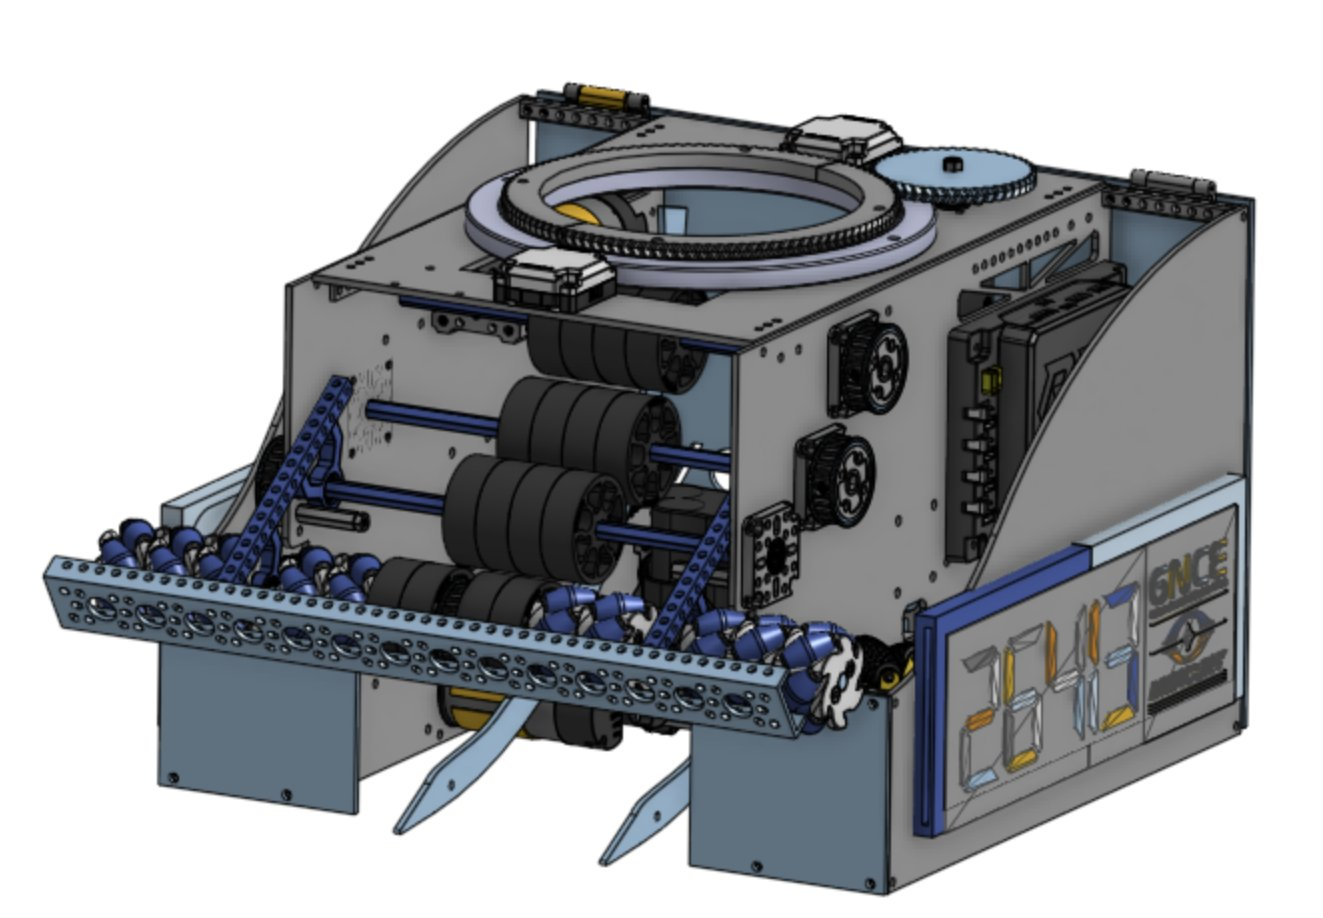
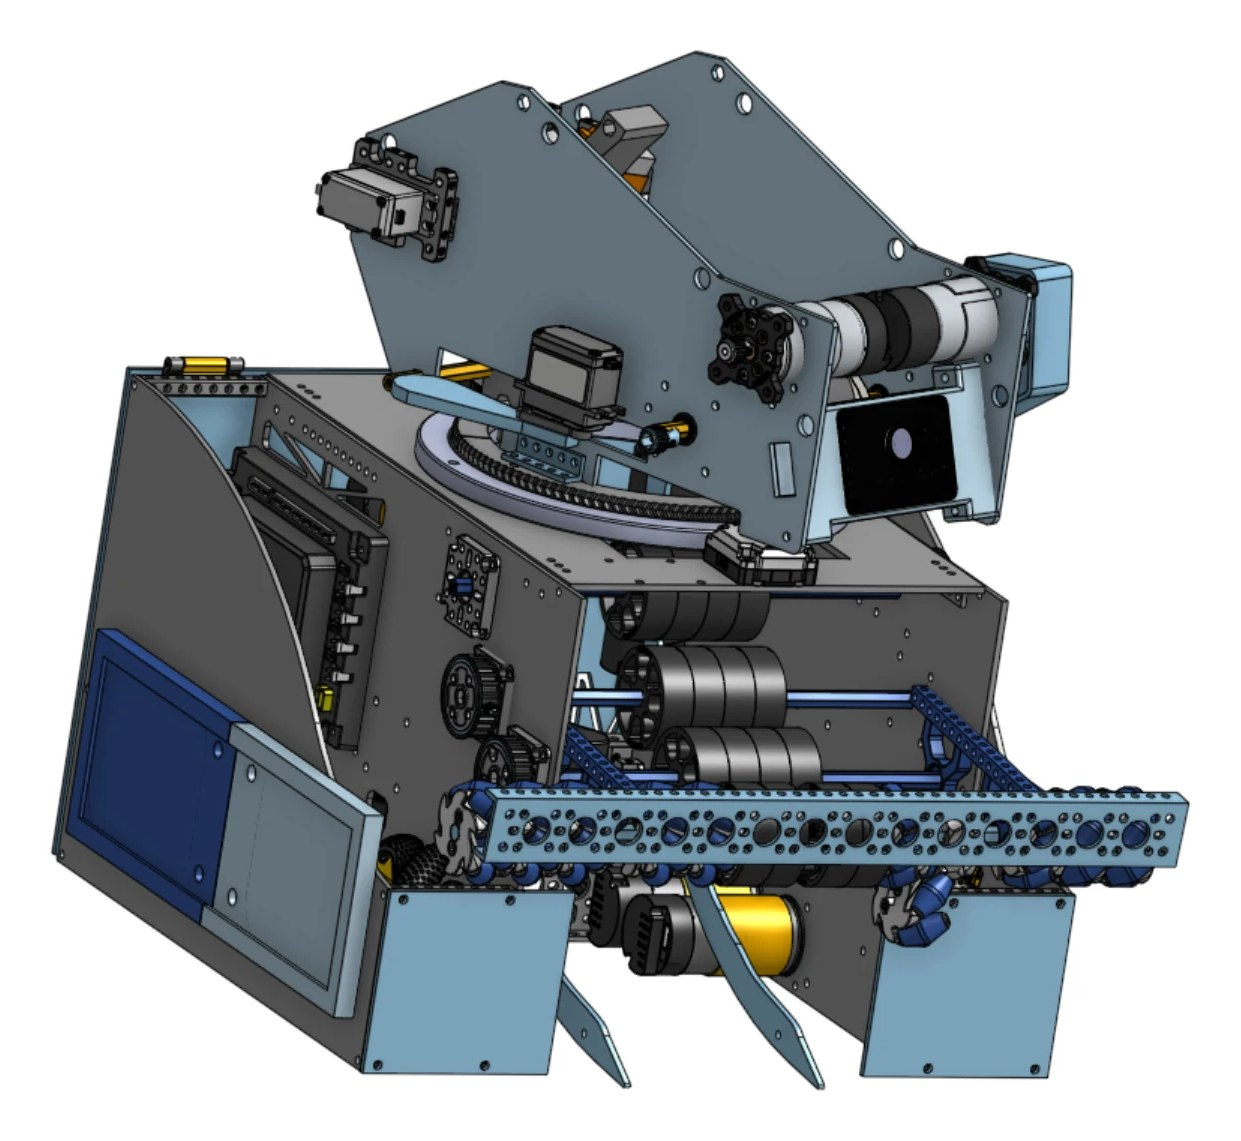
Show the DECODE robot with its shooter; sharper Limelight image
Replace the DECODE robot render on the home carousel and season page
with the full CAD that includes the turret shooter, and crop the
Limelight card image from that render so it is no longer a blurry
low-res screenshot.

Claude-Session: https://claude.ai/code/session_01JbNmKfxJyxxUBqqUXQwoMM

diff --git a/seasons/2025-2026.html b/seasons/2025-2026.html
@@ -7,7 +7,7 @@
   <link rel="preconnect" href="https://fonts.googleapis.com">
   <link rel="preconnect" href="https://fonts.gstatic.com" crossorigin>
   <link href="https://fonts.googleapis.com/css2?family=Chakra+Petch:wght@500;600;700&family=Inter:wght@400;500;600&family=JetBrains+Mono:wght@400;700&display=swap" rel="stylesheet">
-  <link rel="stylesheet" href="../css/style.css?v=28">
+  <link rel="stylesheet" href="../css/style.css?v=29">
 </head>
 <body data-page="seasons" data-root="../">
   <main class="container">
@@ -23,7 +23,7 @@
     <section>
       <h2 class="section-title">The Robot</h2>
       <div class="robot">
-        <img class="robot-photo cad-hero" src="../images/decode-robot-cad.jpg" alt="CAD render of Mercury's DECODE robot with its intake, transfer, and turret shooter" width="1323" height="918">
+        <img class="robot-photo cad-hero" src="../images/decode-robot-cad.jpg" alt="CAD render of Mercury's DECODE robot with its intake, transfer, and turret shooter" width="1241" height="1141">
         <div>
           <h3 style="font-size:1.5rem;margin-bottom:10px">A turret shooter that aims itself</h3>
           <p class="muted">
@@ -58,7 +58,7 @@
         <article class="part-card"><img class="render" src="../images/decode-transfer.jpg" alt="CAD render of the V3 transfer with custom rails" loading="lazy"><div><h3>Transfer</h3><p>V1 took 1.5 s to bring a ball to the shooter. V2 moved several balls at once in 0.9 s. V3 uses custom CADed rails on a constant incline to shrink the footprint and gets a ball to the shooter in 0.34 s.</p></div></article>
         <article class="part-card"><img class="render" src="../images/decode-shooter.jpg" alt="CAD render of shooter version 4" loading="lazy"><div><h3>Shooter</h3><p>Four versions: a bulky fixed hood, a sturdier but large build, a smaller modular one that was unstable, and V4 with stable side plates, the motors in front, and a front-mounted Limelight.</p></div></article>
         <article class="part-card"><img class="render" src="../images/decode-turret.jpg" alt="CAD of the turret top plate, lazy susan, and herringbone gear" loading="lazy"><div><h3>Turret</h3><p>A pulley drive lost tension and took up space, so we switched to a 1:3 herringbone gear mounted to a lazy susan in the top plate. Spring-loaded key retractors manage the wires through the full 360&deg;.</p></div></article>
-        <article class="part-card"><img class="render" src="../images/decode-limelight.png" alt="CAD of the Limelight mounted in front of the shooter" loading="lazy"><div><h3>Limelight</h3><p>After trial and error, we mounted the Limelight directly in front of the shooter. It gives more accurate shots and also helps support the shooter's structure.</p></div></article>
+        <article class="part-card"><img class="render" src="../images/decode-limelight.jpg" alt="CAD render of the Limelight mounted on the front of the shooter" loading="lazy"><div><h3>Limelight</h3><p>After trial and error, we mounted the Limelight directly in front of the shooter. It gives more accurate shots and also helps support the shooter's structure.</p></div></article>
       </div>
     </section>
 
@@ -125,6 +125,6 @@
     </section>
 
   </main>
-  <script src="../js/main.js?v=28"></script>
+  <script src="../js/main.js?v=29"></script>
 </body>
 </html>

diff --git a/index.html b/index.html
@@ -8,7 +8,7 @@
   <link rel="preconnect" href="https://fonts.googleapis.com">
   <link rel="preconnect" href="https://fonts.gstatic.com" crossorigin>
   <link href="https://fonts.googleapis.com/css2?family=Chakra+Petch:wght@500;600;700&family=Inter:wght@400;500;600&family=JetBrains+Mono:wght@400;700&display=swap" rel="stylesheet">
-  <link rel="stylesheet" href="css/style.css?v=28">
+  <link rel="stylesheet" href="css/style.css?v=29">
 </head>
 <body data-page="index">
   <main>
@@ -37,7 +37,7 @@
             <figcaption><b>BIOBUZZ</b> · 2026–2027 · <a href="seasons/2026-2027.html">Follow the build →</a></figcaption>
           </figure>
           <figure class="slide">
-            <div class="frame light"><img class="contain" src="images/decode-robot-cad.jpg" alt="CAD render of GNCE Mercury's DECODE robot with its intake, transfer, and turret shooter" width="1323" height="918" loading="lazy"></div>
+            <div class="frame light"><img class="contain" src="images/decode-robot-cad.jpg" alt="CAD render of GNCE Mercury's DECODE robot with its intake, transfer, and turret shooter" width="1241" height="1141" loading="lazy"></div>
             <figcaption><b>DECODE</b> · 2025–2026 · <a href="seasons/2025-2026.html">See how we built it →</a></figcaption>
           </figure>
           <figure class="slide">
@@ -106,6 +106,6 @@
     </section>
 
   </main>
-  <script src="js/main.js?v=28"></script>
+  <script src="js/main.js?v=29"></script>
 </body>
 </html>

diff --git a/seasons/2024-2025.html b/seasons/2024-2025.html
@@ -7,7 +7,7 @@
   <link rel="preconnect" href="https://fonts.googleapis.com">
   <link rel="preconnect" href="https://fonts.gstatic.com" crossorigin>
   <link href="https://fonts.googleapis.com/css2?family=Chakra+Petch:wght@500;600;700&family=Inter:wght@400;500;600&family=JetBrains+Mono:wght@400;700&display=swap" rel="stylesheet">
-  <link rel="stylesheet" href="../css/style.css?v=28">
+  <link rel="stylesheet" href="../css/style.css?v=29">
 </head>
 <body data-page="seasons" data-root="../">
   <main class="container">
@@ -94,6 +94,6 @@
     </section>
 
   </main>
-  <script src="../js/main.js?v=28"></script>
+  <script src="../js/main.js?v=29"></script>
 </body>
 </html>

diff --git a/seasons/2026-2027.html b/seasons/2026-2027.html
@@ -7,7 +7,7 @@
   <link rel="preconnect" href="https://fonts.googleapis.com">
   <link rel="preconnect" href="https://fonts.gstatic.com" crossorigin>
   <link href="https://fonts.googleapis.com/css2?family=Chakra+Petch:wght@500;600;700&family=Inter:wght@400;500;600&family=JetBrains+Mono:wght@400;700&display=swap" rel="stylesheet">
-  <link rel="stylesheet" href="../css/style.css?v=28">
+  <link rel="stylesheet" href="../css/style.css?v=29">
 </head>
 <body data-page="seasons" data-root="../">
   <main class="container">
@@ -64,6 +64,6 @@
     </section>
 
   </main>
-  <script src="../js/main.js?v=28"></script>
+  <script src="../js/main.js?v=29"></script>
 </body>
 </html>

diff --git a/outreach.html b/outreach.html
@@ -7,7 +7,7 @@
   <link rel="preconnect" href="https://fonts.googleapis.com">
   <link rel="preconnect" href="https://fonts.gstatic.com" crossorigin>
   <link href="https://fonts.googleapis.com/css2?family=Chakra+Petch:wght@500;600;700&family=Inter:wght@400;500;600&family=JetBrains+Mono:wght@400;700&display=swap" rel="stylesheet">
-  <link rel="stylesheet" href="css/style.css?v=28">
+  <link rel="stylesheet" href="css/style.css?v=29">
 </head>
 <body data-page="outreach">
   <main class="container">
@@ -122,6 +122,6 @@
     </section>
 
   </main>
-  <script src="js/main.js?v=28"></script>
+  <script src="js/main.js?v=29"></script>
 </body>
 </html>

diff --git a/contact.html b/contact.html
@@ -7,7 +7,7 @@
   <link rel="preconnect" href="https://fonts.googleapis.com">
   <link rel="preconnect" href="https://fonts.gstatic.com" crossorigin>
   <link href="https://fonts.googleapis.com/css2?family=Chakra+Petch:wght@500;600;700&family=Inter:wght@400;500;600&family=JetBrains+Mono:wght@400;700&display=swap" rel="stylesheet">
-  <link rel="stylesheet" href="css/style.css?v=28">
+  <link rel="stylesheet" href="css/style.css?v=29">
 </head>
 <body data-page="contact">
   <main class="container">
@@ -71,6 +71,6 @@
     </section>
 
   </main>
-  <script src="js/main.js?v=28"></script>
+  <script src="js/main.js?v=29"></script>
 </body>
 </html>

diff --git a/seasons.html b/seasons.html
@@ -7,7 +7,7 @@
   <link rel="preconnect" href="https://fonts.googleapis.com">
   <link rel="preconnect" href="https://fonts.gstatic.com" crossorigin>
   <link href="https://fonts.googleapis.com/css2?family=Chakra+Petch:wght@500;600;700&family=Inter:wght@400;500;600&family=JetBrains+Mono:wght@400;700&display=swap" rel="stylesheet">
-  <link rel="stylesheet" href="css/style.css?v=28">
+  <link rel="stylesheet" href="css/style.css?v=29">
 </head>
 <body data-page="seasons">
   <main class="container">
@@ -43,6 +43,6 @@
     </section>
 
   </main>
-  <script src="js/main.js?v=28"></script>
+  <script src="js/main.js?v=29"></script>
 </body>
 </html>

diff --git a/team.html b/team.html
@@ -7,7 +7,7 @@
   <link rel="preconnect" href="https://fonts.googleapis.com">
   <link rel="preconnect" href="https://fonts.gstatic.com" crossorigin>
   <link href="https://fonts.googleapis.com/css2?family=Chakra+Petch:wght@500;600;700&family=Inter:wght@400;500;600&family=JetBrains+Mono:wght@400;700&display=swap" rel="stylesheet">
-  <link rel="stylesheet" href="css/style.css?v=28">
+  <link rel="stylesheet" href="css/style.css?v=29">
 </head>
 <body data-page="team">
   <main class="container">
@@ -63,6 +63,6 @@
     </section>
 
   </main>
-  <script src="js/main.js?v=28"></script>
+  <script src="js/main.js?v=29"></script>
 </body>
 </html>
